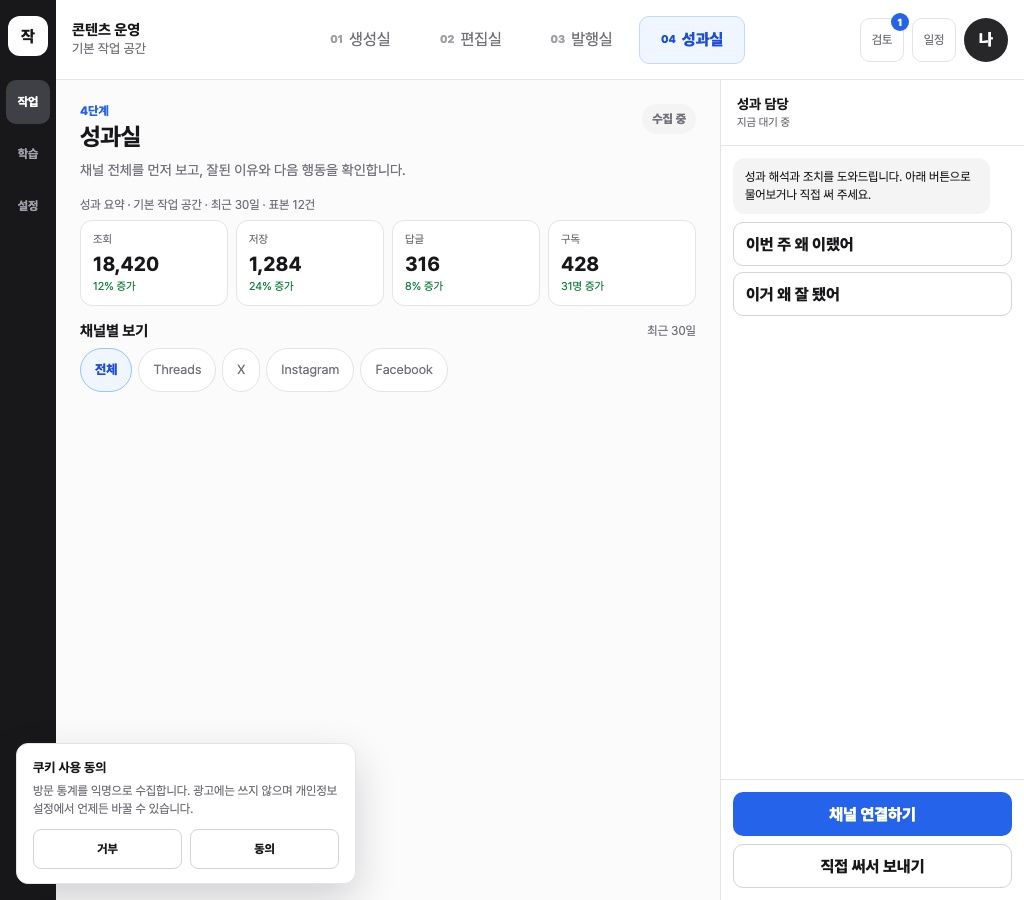
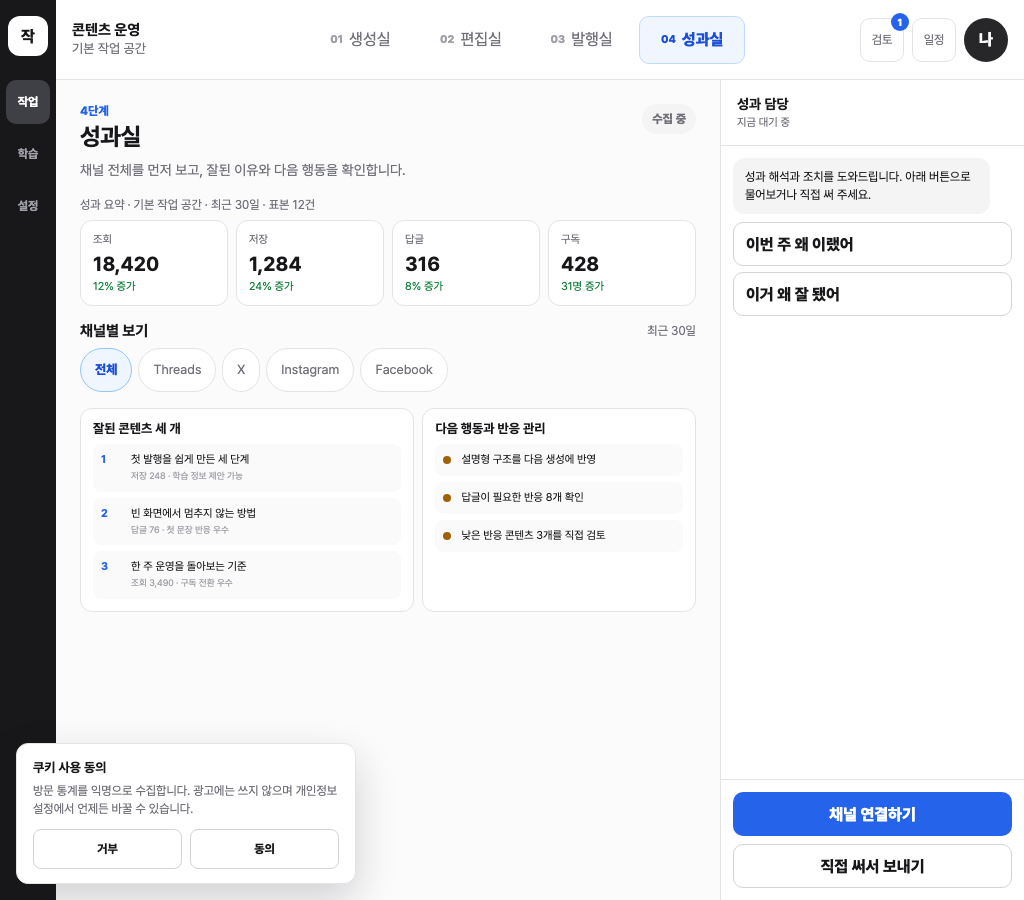
design(osmu-v69): 반려 2건 반영 — 연결 후 프레임 3장 추가 + v67/v68 본론 요소 복원
- publish-after@1024/390, performance-after@390 뷰포트 컷 추가(총 8장)
- 성과실 연결 후: v68 잘된 콘텐츠 3 + 다음 행동 카드 복원(하단 공백 해소)
- 발행실 연결 후: v67 계정 행 + 채운 미리보기 복원(가린 예시 계정)
- 대조 문서에 before/after = 연결 전/후 명명 주석

Claude-Session: https://claude.ai/code/session_01T6btu3FRv958LULrrsxSdK

diff --git a/docs/prototype/osmu-v69-live-gap-fix-fable-20260903-1210.html b/docs/prototype/osmu-v69-live-gap-fix-fable-20260903-1210.html
@@ -138,6 +138,22 @@ h1{font-size:24px;line-height:1.25;margin:0;letter-spacing:-.02em}
 .perf-empty h2{margin:0 0 4px;font-size:15px}
 .perf-empty p{margin:0;font-size:12px;color:var(--muted);line-height:1.55}
 .perf-empty .primary-button{width:auto;padding:0 16px}
+/* 성과실 연결 후 본론 (v68 정본 상속: 잘된 콘텐츠 + 다음 행동) */
+.performance-columns{display:grid;grid-template-columns:1.1fr .9fr;gap:8px;margin-top:16px}
+.insight-card{padding:12px}
+.insight-card h3{margin:0 0 8px;font-size:13px}
+.rank-list,.task-list{display:grid;gap:6px}
+.rank-row,.task-row{padding:8px;border-radius:8px;background:var(--surface-3);font-size:11px;line-height:1.45;display:grid;grid-template-columns:24px minmax(0,1fr);gap:6px}
+.rank-row b{color:var(--accent)}
+.rank-row small,.task-row small{color:var(--subtle)}
+.task-row{grid-template-columns:12px minmax(0,1fr)}
+.dot{width:8px;height:8px;border-radius:50%;background:var(--warning);margin-top:4px}
+/* 발행실 연결 후 계정 행 (v67 정본 상속) */
+.account-row{display:grid;grid-template-columns:32px minmax(0,1fr);gap:8px;align-items:center;padding:12px 16px;background:var(--surface-2)}
+.account-row .avatar-sm{width:32px;height:32px;border-radius:50%;background:#dbeafe;color:#1d4ed8;display:grid;place-items:center;font-size:11px;font-weight:800}
+.account-row strong{display:block;font-size:12px;overflow:hidden;text-overflow:ellipsis;white-space:nowrap}
+.account-row span{display:block;font-size:11px;color:var(--subtle)}
+.preview-text{margin-top:8px;padding:12px;border:1px solid var(--border);border-radius:8px;background:var(--surface);color:var(--text);font-size:12px;line-height:1.6}
 /* 쿠키 배너: 좌하단 코너, 담당 패널·입력을 덮지 않음 */
 .cookie-banner{position:absolute;left:16px;bottom:16px;z-index:50;width:340px;max-width:calc(100% - 32px);border:1px solid var(--border);border-radius:var(--radius-md);background:#fff;box-shadow:0 16px 40px rgba(24,24,27,.18);padding:14px 16px;font-size:12px;line-height:1.55;color:var(--muted)}
 .cookie-banner b{display:block;color:var(--text);margin-bottom:4px;font-size:13px}
@@ -181,6 +197,7 @@ h1{font-size:24px;line-height:1.25;margin:0;letter-spacing:-.02em}
   .publish-grid{grid-template-columns:1fr}
   .metric-grid{grid-template-columns:1fr 1fr}
   .perf-empty{grid-template-columns:1fr}
+  .performance-columns{grid-template-columns:1fr}
   .perf-empty .primary-button{width:100%}
   /* 교정 8(390): 필터 칩 두 줄 깔림 방지 = 한 줄 가로 스크롤 */
   .filter-row{flex-wrap:nowrap;overflow-x:auto;scrollbar-width:none;margin-left:-16px;margin-right:-16px;padding:0 16px}
@@ -326,7 +343,8 @@ const assistant=(title,msg,primary)=>`
 const publishCard=(mark,name,limit,connected)=>`
   <article class="card publish-card">
     <div class="publish-head"><span class="ch-mark">${mark}</span><b>${name}</b><span class="counter">0/${limit}</span></div>
-    ${connected?`<div class="preview-body"><div class="ph">본문 미리보기 자리입니다. 편집실에서 다듬은 글이 여기 표시됩니다.</div></div>`
+    ${connected?`<div class="account-row"><span class="avatar-sm">${mark}</span><div><strong>예시 계정</strong><span>@example_official · 연결됨</span></div></div>
+      <div class="preview-body"><div class="preview-text">처음부터 잘하려 하지 않아도 되는 이유. 오늘은 첫 발행을 쉽게 만든 세 단계를 이야기합니다.</div></div>`
       :`<div class="connect-cta"><button type="button">${name} 계정 연결하기</button></div>
        <div class="preview-body"><div class="ph">연결하면 실제 계정 이름과 미리보기가 여기 표시됩니다.</div></div>`}
   </article>`;
@@ -389,6 +407,18 @@ const perfMain=(startOpen)=>{
       <button class="filter" type="button" ${before?"disabled":""}>Instagram</button>
       <button class="filter" type="button" ${before?"disabled":""}>Facebook</button>
     </div>
+    ${before?"":`<div class="performance-columns">
+      <article class="card insight-card"><h3>잘된 콘텐츠 세 개</h3><div class="rank-list">
+        <div class="rank-row"><b>1</b><span>첫 발행을 쉽게 만든 세 단계<br><small>저장 248 · 학습 정보 제안 가능</small></span></div>
+        <div class="rank-row"><b>2</b><span>빈 화면에서 멈추지 않는 방법<br><small>답글 76 · 첫 문장 반응 우수</small></span></div>
+        <div class="rank-row"><b>3</b><span>한 주 운영을 돌아보는 기준<br><small>조회 3,490 · 구독 전환 우수</small></span></div>
+      </div></article>
+      <article class="card insight-card"><h3>다음 행동과 반응 관리</h3><div class="task-list">
+        <div class="task-row"><span class="dot"></span><span>설명형 구조를 다음 생성에 반영</span></div>
+        <div class="task-row"><span class="dot"></span><span>답글이 필요한 반응 8개 확인</span></div>
+        <div class="task-row"><span class="dot"></span><span>낮은 반응 콘텐츠 3개를 직접 검토</span></div>
+      </div></article>
+    </div>`}
   </section>${assistant("성과 담당",state==="before"?"채널 연결이 끝나면 성과 해석을 도와드립니다.":"성과 해석과 조치를 도와드립니다. 아래 버튼으로 물어보거나 직접 써 주세요.","채널 연결하기")}</div>`;
 };
 

diff --git a/docs/design-docs/osmu-v69-live-gap-대조-fable-20260903.md b/docs/design-docs/osmu-v69-live-gap-대조-fable-20260903.md
@@ -53,8 +53,10 @@
 
 ## 상태·뷰포트 커버리지
 
-- 상태: 채널 연결 전(현재 운영 상태) / 연결 후. 쿠키 배너 표시·숨김 토글. loading·error·disabled·overflow 상태는 v68 정본에 이미 정의돼 있어 중복 제작하지 않았다(상속).
-- 뷰포트: 1024x900, 390x844. clean=1 파라미터로 크롬·토글·변경점 패널·STAMP 제거 내보내기.
+- 상태 이름 주의: 프레임 파일명의 before/after는 "수정 전/후"가 아니라 **채널 연결 전/후**다. 8장 전부 v69 개선안이다. 현재 운영 화면(수정 전)은 docs/qa/osmu-live-walk-20260903/live-*.png 가 그 역할이다.
+- 프레임 8장: publish·performance × 연결 전·후 × 1024x900·390x844. 쿠키 배너 표시·숨김 토글. loading·error·disabled·overflow 상태는 v68 정본에 이미 정의돼 있어 중복 제작하지 않았다(상속).
+- 연결 후 본론 복원(반려 반영, 2026-09-03): v68 정본의 "잘된 콘텐츠 세 개 + 다음 행동과 반응 관리" 두 카드를 성과실 연결 후 화면에 그대로 상속해 채널별 보기 아래 공백을 없앴다. 발행실 연결 후 카드에는 v67 정본의 계정 행(아바타·계정명·연결됨)과 채운 본문 미리보기를 복원했다. 계정명·핸들은 가린 예시(@example_official)를 쓴다.
+- 뷰포트: 1024x900, 390x844 뷰포트 컷(전체 페이지 캡처 아님). clean=1 파라미터로 크롬·토글·변경점 패널·STAMP 제거 내보내기.
 
 ## design-review 결과
 

diff --git a/docs/design/clean-frames/v69-publish-after@1024.stamp.md b/docs/design/clean-frames/v69-publish-after@1024.stamp.md
@@ -1,0 +1,1 @@
+STAMP | line: osmu-v69 | 생성: 2026-09-03 13:05 KST | model: claude-fable-5 | agent: product-designer | 근거: docs/prototype/osmu-v69-live-gap-fix-fable-20260903-1210.html clean=1 뷰포트 컷(1024x900)

diff --git a/docs/design/clean-frames/v69-performance-after@390.stamp.md b/docs/design/clean-frames/v69-performance-after@390.stamp.md
@@ -1,0 +1,1 @@
+STAMP | line: osmu-v69 | 생성: 2026-09-03 13:05 KST | model: claude-fable-5 | agent: product-designer | 근거: docs/prototype/osmu-v69-live-gap-fix-fable-20260903-1210.html clean=1 뷰포트 컷(390x844)

diff --git a/docs/design/clean-frames/v69-publish-after@390.stamp.md b/docs/design/clean-frames/v69-publish-after@390.stamp.md
@@ -1,0 +1,1 @@
+STAMP | line: osmu-v69 | 생성: 2026-09-03 13:05 KST | model: claude-fable-5 | agent: product-designer | 근거: docs/prototype/osmu-v69-live-gap-fix-fable-20260903-1210.html clean=1 뷰포트 컷(390x844)
